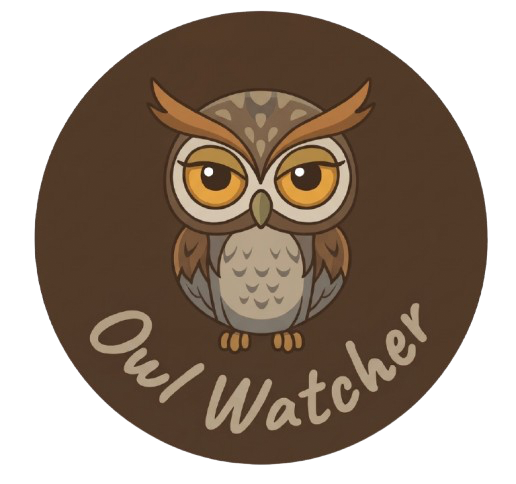
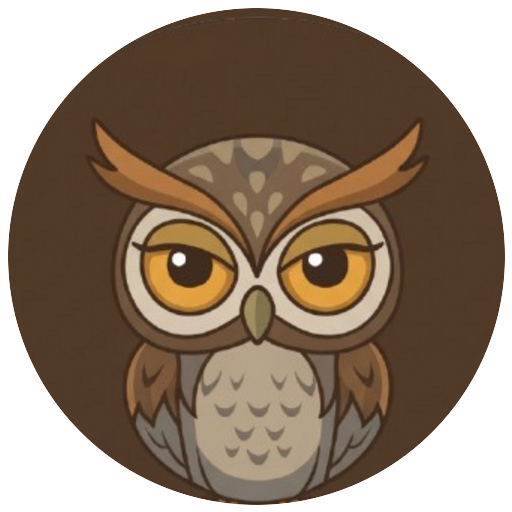
Lock the note on premium themes and give the Owl Watcher mark a legible owl
Premium themes preview freely, but the message and signature fields now
stay read-only until a code is redeemed, with a short notice explaining
why. The free midnight theme and every unlocked session keep typing.
The lock follows theme changes, code redemption, and shared links that
carry premium blooms.

The logo was a square badge with "Owl Watcher" lettering baked into it,
which smeared into an unreadable smudge at the 42px nav size. It is now
a clean circular owl mark with no baked-in text, so the wordmark beside
it does the reading and the owl reads as an owl even in the card header.

diff --git a/bouquet-app.js b/bouquet-app.js
@@ -97,6 +97,7 @@
         message: document.getElementById('messageInput'),
         from: document.getElementById('fromInput'),
         charCount: document.getElementById('charCount'),
+        messageLock: document.getElementById('messageLock'),
         createBtn: document.getElementById('createBtn'),
         progressWrap: document.getElementById('progressWrap'),
         progressBar: document.getElementById('progressBar'),
@@ -178,6 +179,29 @@
         return selectedPremiumFlowers().length > 0;
     }
 
+    // Writing the note is part of the paid experience: while a premium theme is
+    // selected and no code has been redeemed, both fields are read-only. The
+    // free theme never locks, and unlocking enables typing immediately.
+    function messageLocked() {
+        return !state.unlocked && themeById(state.theme).free !== true;
+    }
+
+    function syncMessageLock() {
+        const locked = messageLocked();
+        [el.message, el.from].forEach((field) => {
+            if (!field) return;
+            field.readOnly = locked;
+            field.setAttribute('aria-readonly', String(locked));
+        });
+        if (el.messageLock) {
+            el.messageLock.hidden = !locked;
+            el.messageLock.textContent = locked
+                ? 'Writing your note unlocks with a code — redeem one above to type your message.'
+                : '';
+        }
+        return locked;
+    }
+
     function setPremiumStatus(text, kind) {
         if (!el.premiumStatus) return;
         el.premiumStatus.textContent = text || '';
@@ -245,6 +269,7 @@
         const theme = themeById(id);
         state.theme = id;
         syncThemeGrid();
+        syncMessageLock();
         drawPreview();
         invalidateExport();
 
@@ -902,6 +927,7 @@
         setPremiumStatus('Unlocked! Premium themes and flowers are available for this bouquet.', 'ok');
         renderThemeGrid();
         syncFlowerGrid();
+        syncMessageLock();
         drawPreview();
         invalidateExport();
     }
@@ -953,6 +979,7 @@
         renderFlowerGrid();
         renderThemeGrid();
         bindEvents();
+        syncMessageLock();
 
         const prefilled = readLink();
         if (prefilled) {
@@ -961,6 +988,8 @@
             el.charCount.textContent = state.message.length + ' / ' + MAX_MESSAGE;
             syncFlowerGrid();
         }
+        // A shared link may carry premium flowers, which re-lock the note.
+        syncMessageLock();
 
         // default arrangement seed is stable per visit
         state.arrangementSeed = state.arrangementSeed || engine.hashString('owl-watcher-bouquet');
@@ -986,7 +1015,8 @@
         totalBlooms, selectedFlowerIds, drawCardTo, downloadGif, shareGif,
         nativePlatformName, blobToBase64,
         needsCode, chooseTheme, redeemCode, renderThemeGrid,
-        isPremiumFlower, selectedPremiumFlowers
+        isPremiumFlower, selectedPremiumFlowers,
+        messageLocked, syncMessageLock
     };
 
     init();

diff --git a/tests/bouquet.test.js b/tests/bouquet.test.js
@@ -331,6 +331,43 @@ test('premium themes and flowers are locked until a code is accepted', async (t)
     assert.equal(page.needsCode(), false);
 });
 
+test('the note can only be typed on the free theme or after a code is redeemed', async (t) => {
+    const { window, doc } = pageDom(t);
+    await settle();
+    const page = window.OwBouquetPage;
+    const msg = doc.getElementById('messageInput');
+    const from = doc.getElementById('fromInput');
+    const hint = doc.getElementById('messageLock');
+
+    // free theme: typing works, nothing is locked
+    assert.equal(page.state.theme, 'night');
+    assert.equal(msg.readOnly, false, 'the free theme lets you write');
+    assert.equal(from.readOnly, false);
+    assert.equal(hint.hidden, true, 'no lock notice on the free theme');
+
+    // premium theme locks both fields and explains why
+    page.chooseTheme('birthday');
+    assert.equal(msg.readOnly, true, 'premium theme blocks the message');
+    assert.equal(from.readOnly, true, 'premium theme blocks the signature too');
+    assert.equal(msg.getAttribute('aria-readonly'), 'true');
+    assert.equal(hint.hidden, false, 'a lock notice is shown');
+    assert.match(hint.textContent, /code/i);
+
+    // going back to the free theme unlocks again
+    page.chooseTheme('night');
+    assert.equal(msg.readOnly, false);
+    assert.equal(hint.hidden, true);
+
+    // redeeming a code unlocks typing on premium themes
+    page.chooseTheme('wedding');
+    assert.equal(msg.readOnly, true);
+    page.state.unlocked = true;
+    page.syncMessageLock();
+    assert.equal(msg.readOnly, false, 'a redeemed code lets you write');
+    assert.equal(from.readOnly, false);
+    assert.equal(hint.hidden, true);
+});
+
 test('the ten original flowers stay free and premium ones stay locked', async (t) => {
     const { window, doc } = pageDom(t);
     await settle();

diff --git a/bouquet.html b/bouquet.html
@@ -249,6 +249,15 @@
         #messageInput { min-height: 92px; }
         #charCount { font-variant-numeric: tabular-nums; font-size: 0.78rem; color: var(--ow-muted); }
         #charCount.is-near { color: var(--ow-danger); }
+        /* Writing the note is unlocked by a code; until then the fields read only. */
+        #messageInput[readonly], #fromInput[readonly] { background: var(--ow-chip); cursor: not-allowed; }
+        .message-lock {
+            margin: 8px 0 0;
+            font-size: 0.85rem;
+            font-weight: 600;
+            color: var(--ow-danger);
+        }
+        .message-lock[hidden] { display: none; }
 
         /* ---- share ---- */
         .share-grid { display: grid; gap: 10px; }
@@ -475,6 +484,7 @@
             <span class="small muted">Keep it short — it sits on the card under your bouquet.</span>
             <span id="charCount">0 / 220</span>
         </div>
+        <p class="message-lock" id="messageLock" role="status" aria-live="polite" hidden></p>
         <label for="fromInput">From (optional)</label>
         <input type="text" id="fromInput" maxlength="28" placeholder="Your name" autocomplete="name">
     </section>
